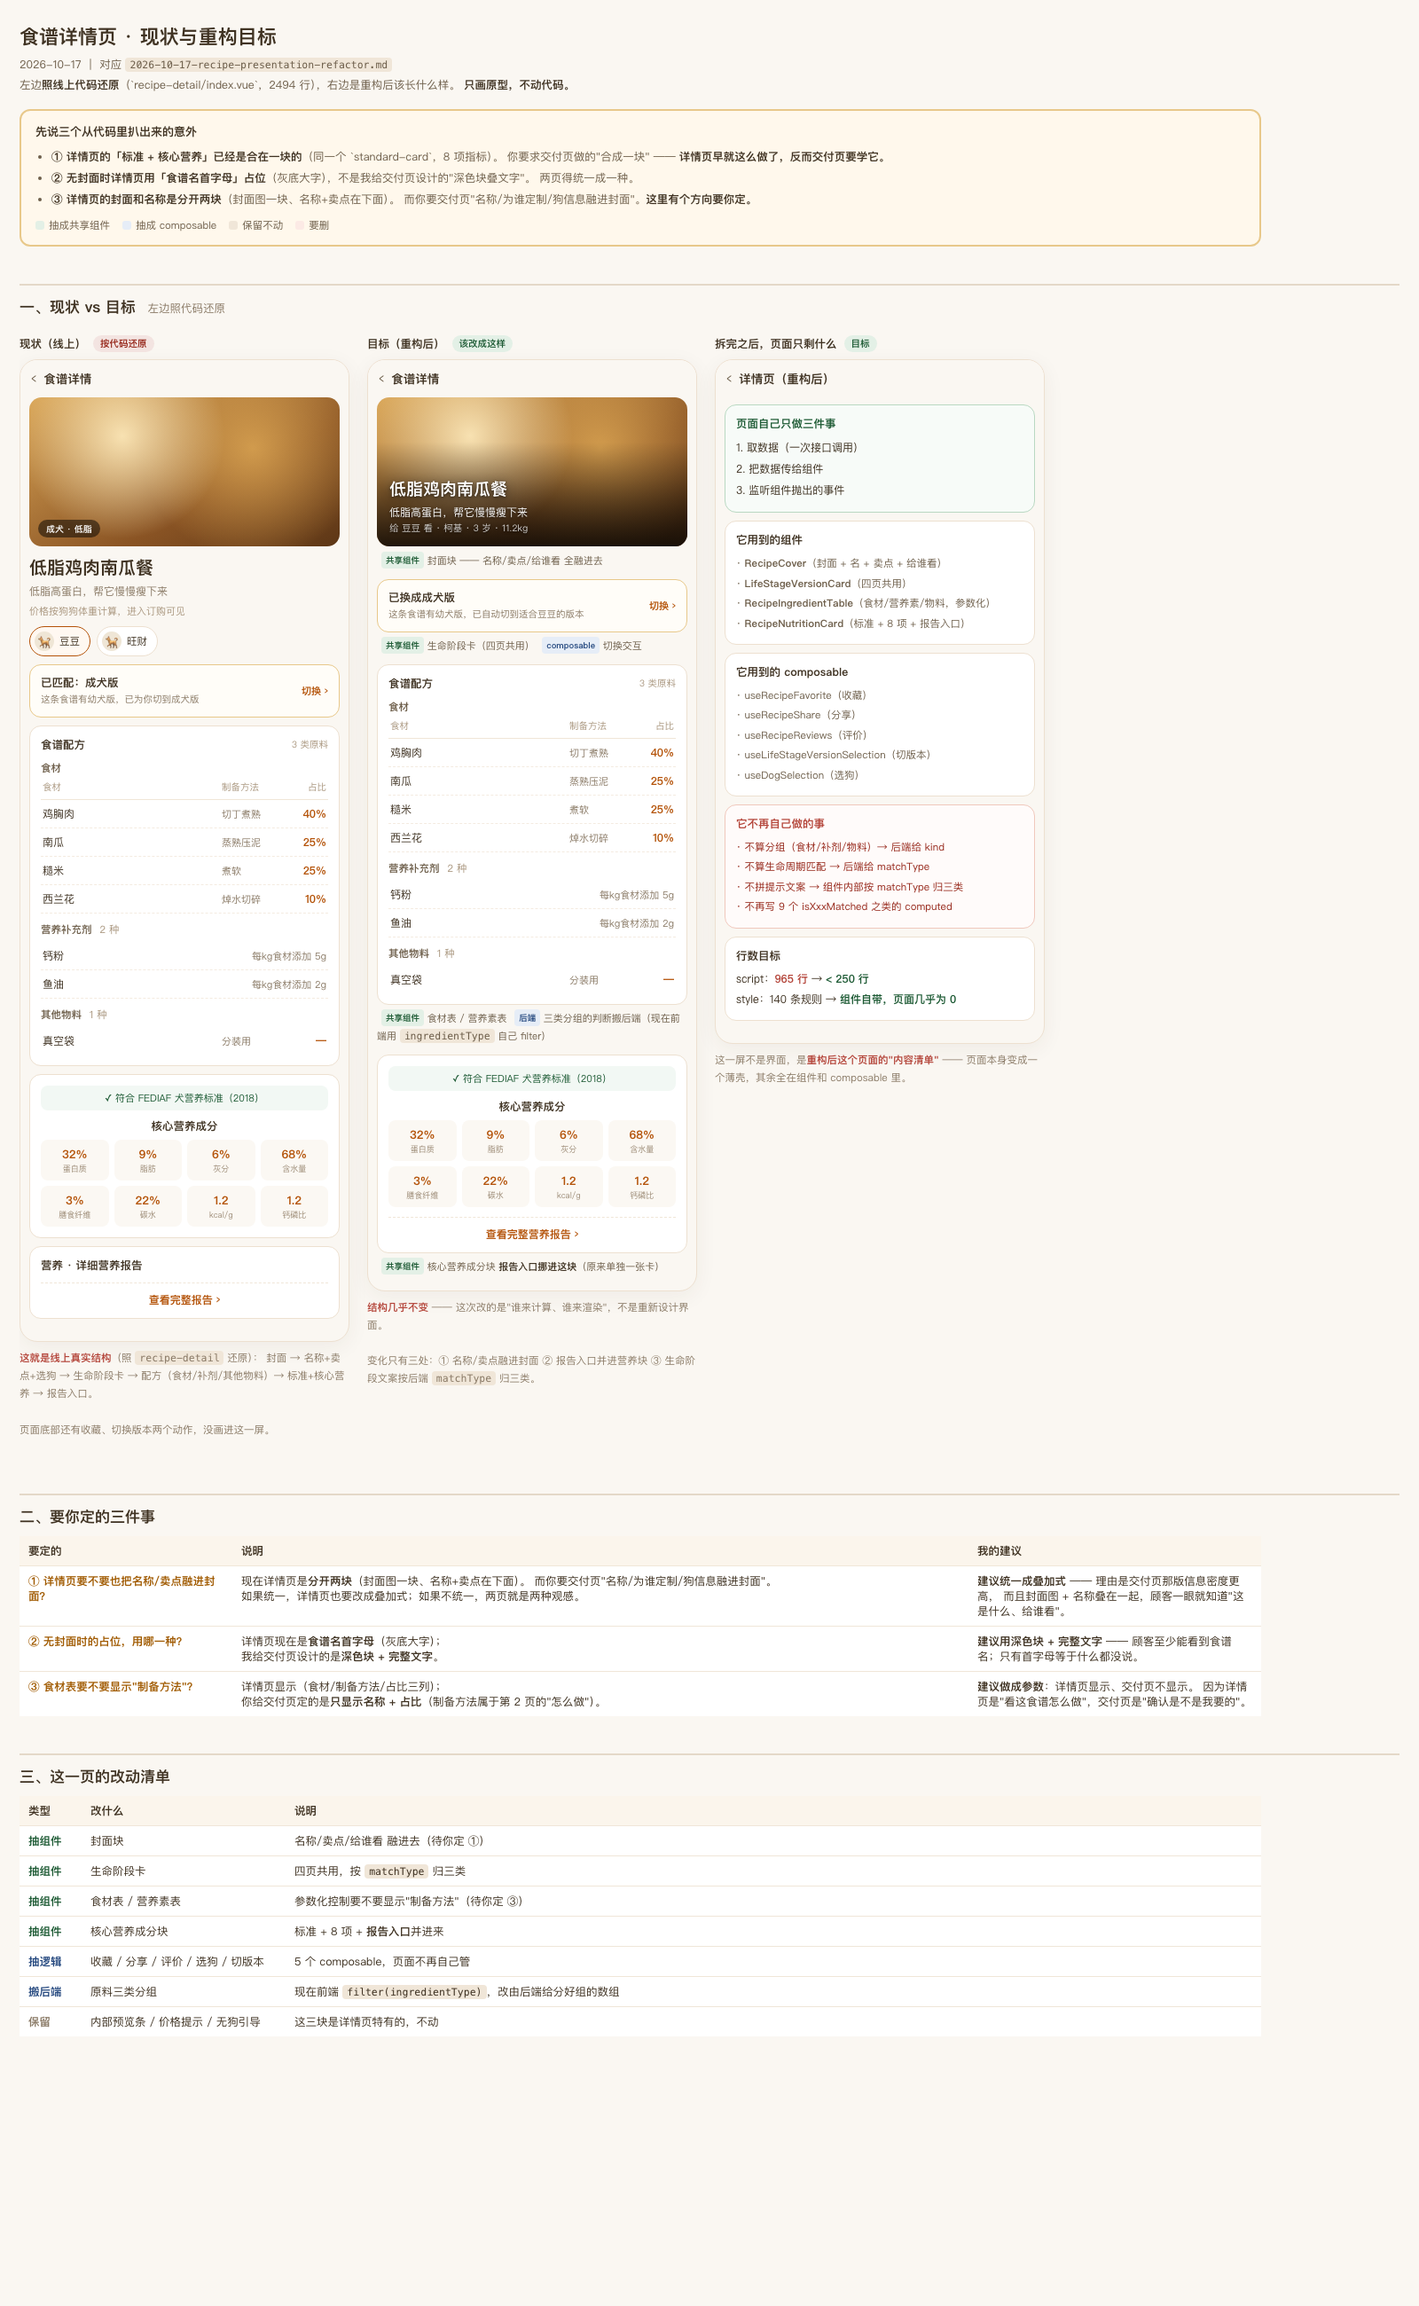
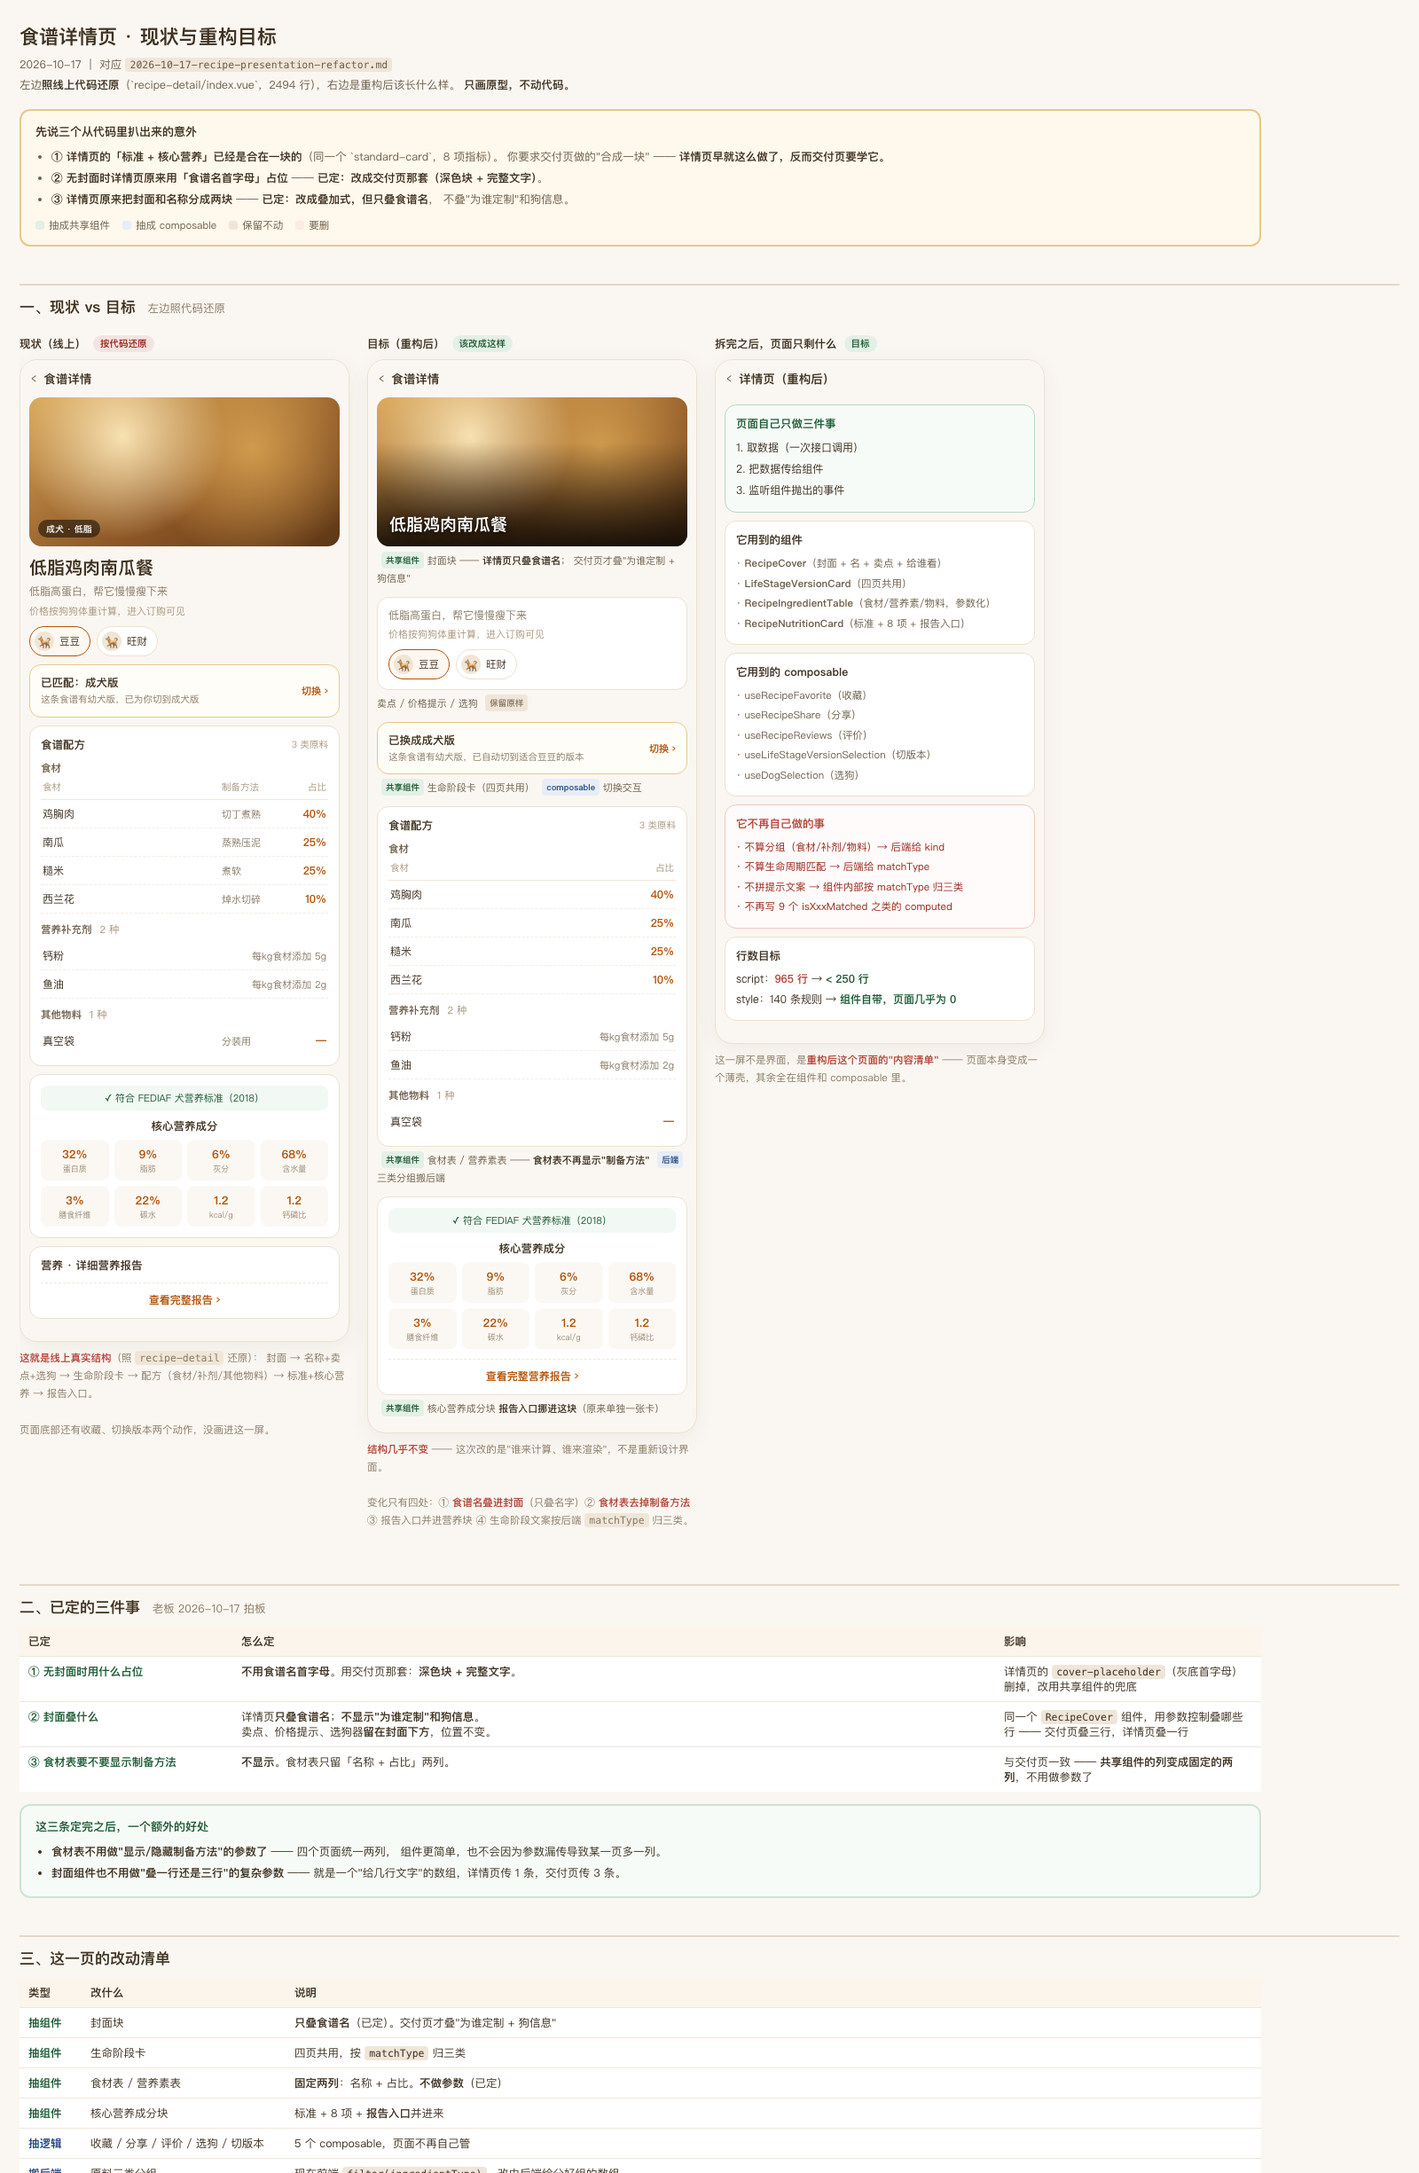
docs: 详情页三条定论落地（原型 + 重构需求）
老板 2026-10-17 拍板三条：

## ① 无封面不用首字母，用交付页那套

详情页原来的 `cover-placeholder`（灰底大字，只有食谱名首字母）删掉，
统一走共享组件的兜底：**深色块 + 完整文字**。

理由：只有一个首字母，等于什么都没说。

## ② 详情页封面只叠食谱名

不叠"为谁定制"和狗信息（那两行只有交付页要）。
卖点、价格提示、选狗器**留在封面下方**，位置不变。

→ `RecipeCover` 不做复杂参数，就是"给几行文字"的数组：
  详情页传 1 条，交付页传 3 条。

## ③ 食材表不显示制备方法

只留「名称 + 占比」两列。
→ 共享表格**固定两列，不做参数**。

## 一个额外的好处（写进文档了）

三条定完之后，组件反而更简单：

- 不需要"显示/隐藏制备方法"的开关
- 不需要"叠一行还是三行"的参数

**少一个参数，就少一处"某一页漏传导致多一列"的坑。**

## 原型同步

现状页保留原样（照代码，含制备方法列和首字母占位的说明），
目标页已按三条改完；改动清单里"待你定"全部清掉，改成已定结论。

Changed region(s): [[0.0, 0.0, 0.7188, 1.0], [0.6875, 0.6514, 0.875, 0.8376], [0.1875, 0.9306, 0.4375, 1.0]]

diff --git a/docs/prototypes/2026-10-17-recipe-detail-refactor.html b/docs/prototypes/2026-10-17-recipe-detail-refactor.html
@@ -144,10 +144,9 @@
   <ul>
     <li><b>① 详情页的「标准 + 核心营养」已经是合在一块的</b>（同一个 `standard-card`，8 项指标）。
       你要求交付页做的"合成一块" —— <b>详情页早就这么做了，反而交付页要学它。</b></li>
-    <li><b>② 无封面时详情页用「食谱名首字母」占位</b>（灰底大字），不是我给交付页设计的"深色块叠文字"。
-      两页得统一成一种。</li>
-    <li><b>③ 详情页的封面和名称是分开两块</b>（封面图一块、名称+卖点在下面）。
-      而你要交付页"名称/为谁定制/狗信息融进封面"。<b>这里有个方向要你定。</b></li>
+    <li><b>② 无封面时详情页原来用「食谱名首字母」占位</b> —— <b>已定：改成交付页那套（深色块 + 完整文字）</b>。</li>
+    <li><b>③ 详情页原来把封面和名称分成两块</b> —— <b>已定：改成叠加式，但只叠食谱名</b>，
+      不叠"为谁定制"和狗信息。</li>
   </ul>
   <div class="legend">
     <span><i style="background:#E3F0E6"></i>抽成共享组件</span>
@@ -248,12 +247,23 @@
           <div class="cover__scrim"></div>
           <div class="cover__txt">
             <div class="cover__name">低脂鸡肉南瓜餐</div>
-            <div class="cover__for">低脂高蛋白，帮它慢慢瘦下来</div>
-            <div class="cover__facts">给 豆豆 看 · 柯基 · 3 岁 · 11.2kg</div>
           </div>
         </div>
         <div class="sub" style="font-size:11px;margin:-4px 0 10px">
-          <span class="mark mark--comp">共享组件</span> 封面块 —— 名称/卖点/给谁看 全融进去
+          <span class="mark mark--comp">共享组件</span> 封面块 —— <b>详情页只叠食谱名</b>；
+          交付页才叠"为谁定制 + 狗信息"
+        </div>
+
+        <div class="card" style="padding:11px 12px">
+          <div class="name-block__s" style="margin-top:0">低脂高蛋白，帮它慢慢瘦下来</div>
+          <div class="price-hint" style="margin-top:5px">价格按狗狗体重计算，进入订购可见</div>
+          <div class="dogs">
+            <div class="dog dog--on"><span class="dog__av">🐕</span>豆豆</div>
+            <div class="dog"><span class="dog__av">🐕</span>旺财</div>
+          </div>
+        </div>
+        <div class="sub" style="font-size:11px;margin:-4px 0 10px">
+          卖点 / 价格提示 / 选狗 <span class="mark mark--keep">保留原样</span>
         </div>
 
         <div class="ls ls--warn">
@@ -272,22 +282,23 @@
           <div class="sec__t">食谱配方 <em>3 类原料</em></div>
 
           <div class="table-h">食材</div>
-          <div class="thead"><span class="th-n">食材</span><span class="th-m">制备方法</span><span class="th-r">占比</span></div>
-          <div class="item"><span class="it-n">鸡胸肉</span><span class="it-m">切丁煮熟</span><span class="it-r">40%</span></div>
-          <div class="item"><span class="it-n">南瓜</span><span class="it-m">蒸熟压泥</span><span class="it-r">25%</span></div>
-          <div class="item"><span class="it-n">糙米</span><span class="it-m">煮软</span><span class="it-r">25%</span></div>
-          <div class="item"><span class="it-n">西兰花</span><span class="it-m">焯水切碎</span><span class="it-r">10%</span></div>
+          <div class="thead"><span class="th-n">食材</span><span class="th-r">占比</span></div>
+          <div class="item"><span class="it-n">鸡胸肉</span><span class="it-r">40%</span></div>
+          <div class="item"><span class="it-n">南瓜</span><span class="it-r">25%</span></div>
+          <div class="item"><span class="it-n">糙米</span><span class="it-r">25%</span></div>
+          <div class="item"><span class="it-n">西兰花</span><span class="it-r">10%</span></div>
 
           <div class="table-h">营养补充剂 <em>2 种</em></div>
           <div class="item"><span class="it-n">钙粉</span><span class="it-m" style="width:auto">每kg食材添加 5g</span></div>
           <div class="item"><span class="it-n">鱼油</span><span class="it-m" style="width:auto">每kg食材添加 2g</span></div>
 
           <div class="table-h">其他物料 <em>1 种</em></div>
-          <div class="item"><span class="it-n">真空袋</span><span class="it-m">分装用</span><span class="it-r">—</span></div>
+          <div class="item"><span class="it-n">真空袋</span><span class="it-r">—</span></div>
         </div>
         <div class="sub" style="font-size:11px;margin:-4px 0 10px">
-          <span class="mark mark--comp">共享组件</span> 食材表 / 营养素表
-          <span class="mark mark--logic">后端</span> 三类分组的判断搬后端（现在前端用 <code>ingredientType</code> 自己 filter）
+          <span class="mark mark--comp">共享组件</span> 食材表 / 营养素表 ——
+          <b>食材表不再显示"制备方法"</b>
+          <span class="mark mark--logic">后端</span> 三类分组搬后端
         </div>
 
         <div class="card">
@@ -315,7 +326,8 @@
     <div class="col__note">
       <b>结构几乎不变</b> —— 这次改的是"谁来计算、谁来渲染"，不是重新设计界面。
       <br /><br />
-      变化只有三处：① 名称/卖点融进封面 ② 报告入口并进营养块 ③ 生命阶段文案按后端 <code>matchType</code> 归三类。
+      变化只有四处：① <b>食谱名叠进封面</b>（只叠名字）② <b>食材表去掉制备方法</b>
+      ③ 报告入口并进营养块 ④ 生命阶段文案按后端 <code>matchType</code> 归三类。
     </div>
   </div>
 
@@ -384,44 +396,51 @@
 </div>
 
 <!-- ================================================================ -->
-<h2>二、要你定的三件事</h2>
+<h2>二、已定的三件事 <span>老板 2026-10-17 拍板</span></h2>
 <table class="diff">
-  <tr><th style="width:240px">要定的</th><th>说明</th><th style="width:330px">我的建议</th></tr>
+  <tr><th style="width:240px">已定</th><th>怎么定</th><th style="width:300px">影响</th></tr>
   <tr>
-    <td class="decide">① 详情页要不要也把名称/卖点融进封面？</td>
-    <td>现在详情页是<b>分开两块</b>（封面图一块、名称+卖点在下面）。
-      而你要交付页"名称/为谁定制/狗信息融进封面"。<br />
-      如果统一，详情页也要改成叠加式；如果不统一，两页就是两种观感。</td>
-    <td><b>建议统一成叠加式</b> —— 理由是交付页那版信息密度更高，
-      而且封面图 + 名称叠在一起，顾客一眼就知道"这是什么、给谁看"。</td>
+    <td class="new">① 无封面时用什么占位</td>
+    <td><b>不用食谱名首字母</b>。用交付页那套：<b>深色块 + 完整文字</b>。</td>
+    <td>详情页的 <code>cover-placeholder</code>（灰底首字母）删掉，改用共享组件的兜底</td>
   </tr>
   <tr>
-    <td class="decide">② 无封面时的占位，用哪一种？</td>
-    <td>详情页现在是<b>食谱名首字母</b>（灰底大字）；<br />
-      我给交付页设计的是<b>深色块 + 完整文字</b>。</td>
-    <td><b>建议用深色块 + 完整文字</b> ——
-      顾客至少能看到食谱名；只有首字母等于什么都没说。</td>
+    <td class="new">② 封面叠什么</td>
+    <td>详情页<b>只叠食谱名</b>；<b>不显示"为谁定制"和狗信息</b>。<br />
+      卖点、价格提示、选狗器<b>留在封面下方</b>，位置不变。</td>
+    <td>同一个 <code>RecipeCover</code> 组件，用参数控制叠哪些行 ——
+      交付页叠三行，详情页叠一行</td>
   </tr>
   <tr>
-    <td class="decide">③ 食材表要不要显示"制备方法"？</td>
-    <td>详情页显示（食材/制备方法/占比三列）；<br />
-      你给交付页定的是<b>只显示名称 + 占比</b>（制备方法属于第 2 页的"怎么做"）。</td>
-    <td><b>建议做成参数</b>：详情页显示、交付页不显示。
-      因为详情页是"看这食谱怎么做"，交付页是"确认是不是我要的"。</td>
+    <td class="new">③ 食材表要不要显示制备方法</td>
+    <td><b>不显示</b>。食材表只留「名称 + 占比」两列。</td>
+    <td>与交付页一致 —— <b>共享组件的列变成固定的两列</b>，不用做参数了</td>
   </tr>
 </table>
+
+<div class="banner" style="margin-top:14px;border-color:#CFE3D5;background:#F7FBF8">
+  <div class="banner__t" style="color:#1e5b35">这三条定完之后，一个额外的好处</div>
+  <ul style="color:#3F3222">
+    <li><b>食材表不用做"显示/隐藏制备方法"的参数了</b> —— 四个页面统一两列，
+      组件更简单，也不会因为参数漏传导致某一页多一列。</li>
+    <li><b>封面组件也不用做"叠一行还是三行"的复杂参数</b> ——
+      就是一个"给几行文字"的数组，详情页传 1 条，交付页传 3 条。</li>
+  </ul>
+</div>
 
 <!-- ================================================================ -->
 <h2>三、这一页的改动清单</h2>
 <table class="diff">
   <tr><th style="width:70px">类型</th><th style="width:230px">改什么</th><th>说明</th></tr>
-  <tr><td class="s" style="color:#1e5b35;font-weight:700">抽组件</td><td>封面块</td><td>名称/卖点/给谁看 融进去（待你定 ①）</td></tr>
+  <tr><td class="s" style="color:#1e5b35;font-weight:700">抽组件</td><td>封面块</td><td><b>只叠食谱名</b>（已定）。交付页才叠"为谁定制 + 狗信息"</td></tr>
   <tr><td class="s" style="color:#1e5b35;font-weight:700">抽组件</td><td>生命阶段卡</td><td>四页共用，按 <code>matchType</code> 归三类</td></tr>
-  <tr><td class="s" style="color:#1e5b35;font-weight:700">抽组件</td><td>食材表 / 营养素表</td><td>参数化控制要不要显示"制备方法"（待你定 ③）</td></tr>
+  <tr><td class="s" style="color:#1e5b35;font-weight:700">抽组件</td><td>食材表 / 营养素表</td><td><b>固定两列</b>：名称 + 占比。<b>不做参数</b>（已定）</td></tr>
   <tr><td class="s" style="color:#1e5b35;font-weight:700">抽组件</td><td>核心营养成分块</td><td>标准 + 8 项 + <b>报告入口</b>并进来</td></tr>
   <tr><td class="s" style="color:#23477e;font-weight:700">抽逻辑</td><td>收藏 / 分享 / 评价 / 选狗 / 切版本</td><td>5 个 composable，页面不再自己管</td></tr>
   <tr><td class="s" style="color:#23477e;font-weight:700">搬后端</td><td>原料三类分组</td><td>现在前端 <code>filter(ingredientType)</code>，改由后端给分好组的数组</td></tr>
-  <tr><td class="s" style="color:#8A7A66;font-weight:700">保留</td><td>内部预览条 / 价格提示 / 无狗引导</td><td>这三块是详情页特有的，不动</td></tr>
+  <tr><td class="s" style="color:#b4453a;font-weight:700">要删</td><td>封面首字母占位（<code>cover-placeholder</code>）</td><td>改用共享组件的"深色块 + 完整文字"兜底</td></tr>
+  <tr><td class="s" style="color:#b4453a;font-weight:700">要删</td><td>食材表的「制备方法」列</td><td>食材表只留「名称 + 占比」</td></tr>
+  <tr><td class="s" style="color:#8A7A66;font-weight:700">保留</td><td>内部预览条 / 价格提示 / 无狗引导 / 选狗器</td><td>这几块是详情页特有的，位置不变</td></tr>
 </table>
 
 </body>

diff --git a/docs/plans/2026-10-17-recipe-presentation-refactor.md b/docs/plans/2026-10-17-recipe-presentation-refactor.md
@@ -234,6 +234,22 @@ return matchType === 'MANUAL_MISMATCH' || 'FALLBACK_ADULT' || 'FALLBACK_FIRST'
 
 ---
 
+## 五之二、详情页的三条定论（老板 2026-10-17 拍板）
+
+原型审完后定下的三条，直接影响共享组件的参数设计：
+
+| # | 已定 | 影响 |
+|---|---|---|
+| 1 | **无封面时不用"食谱名首字母"**，用交付页那套（**深色块 + 完整文字**） | 详情页的 `cover-placeholder` 删掉，统一走共享组件的兜底 |
+| 2 | **详情页封面只叠食谱名**；不显示"为谁定制"和狗信息。<br />卖点、价格提示、选狗器**留在封面下方**，位置不变 | `RecipeCover` 不做复杂参数 —— 就是"给几行文字"的数组：<br />详情页传 1 条，交付页传 3 条 |
+| 3 | **食材表不显示"制备方法"**，只留「名称 + 占比」 | 共享表格**固定两列，不做参数** —— 四个页面统一 |
+
+> **三条定完的好处**：组件反而更简单了。
+> 不需要"显示/隐藏制备方法"的参数，也不需要"叠一行还是三行"的开关 ——
+> 少一个参数，就少一处"某一页漏传导致多一列"的坑。
+
+---
+
 ## 六、验收标准（可量化，不靠感觉）
 
 | # | 验收 | 怎么量 |
